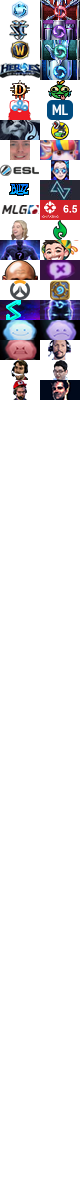
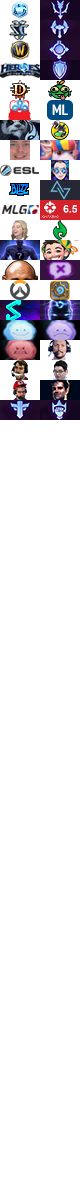
Update flair to new roles

Changed region(s): [[0.0, 0.3083, 1.0, 0.37], [0.5, 0.0, 1.0, 0.0925]]

diff --git a/user_flair/general_flair.scss b/user_flair/general_flair.scss
@@ -6,7 +6,7 @@
   background-position: 0 0;
 }
 
-.flair-g-assassin::before {
+.flair-g-ranged-assassin::before {
   background-position: 40px 0;
 }
 
@@ -14,7 +14,7 @@
   background-position: 0 -20px;
 }
 
-.flair-g-specialist::before {
+.flair-g-melee-assassin::before {
   background-position: 40px -20px;
 }
 
@@ -30,7 +30,7 @@
   background-position: 0 -60px;
 }
 
-.flair-g-warrior::before {
+.flair-g-tank::before {
   background-position: 40px -60px;
 }
 
@@ -156,4 +156,12 @@
 
 .flair-g-cloaken::before {
   background-position: 40px -380px;
+}
+
+.flair-g-healer::before {
+  background-position: 0 -400px;
+}
+
+.flair-g-bruiser::before {
+  background-position: 40px -400px;
 }
